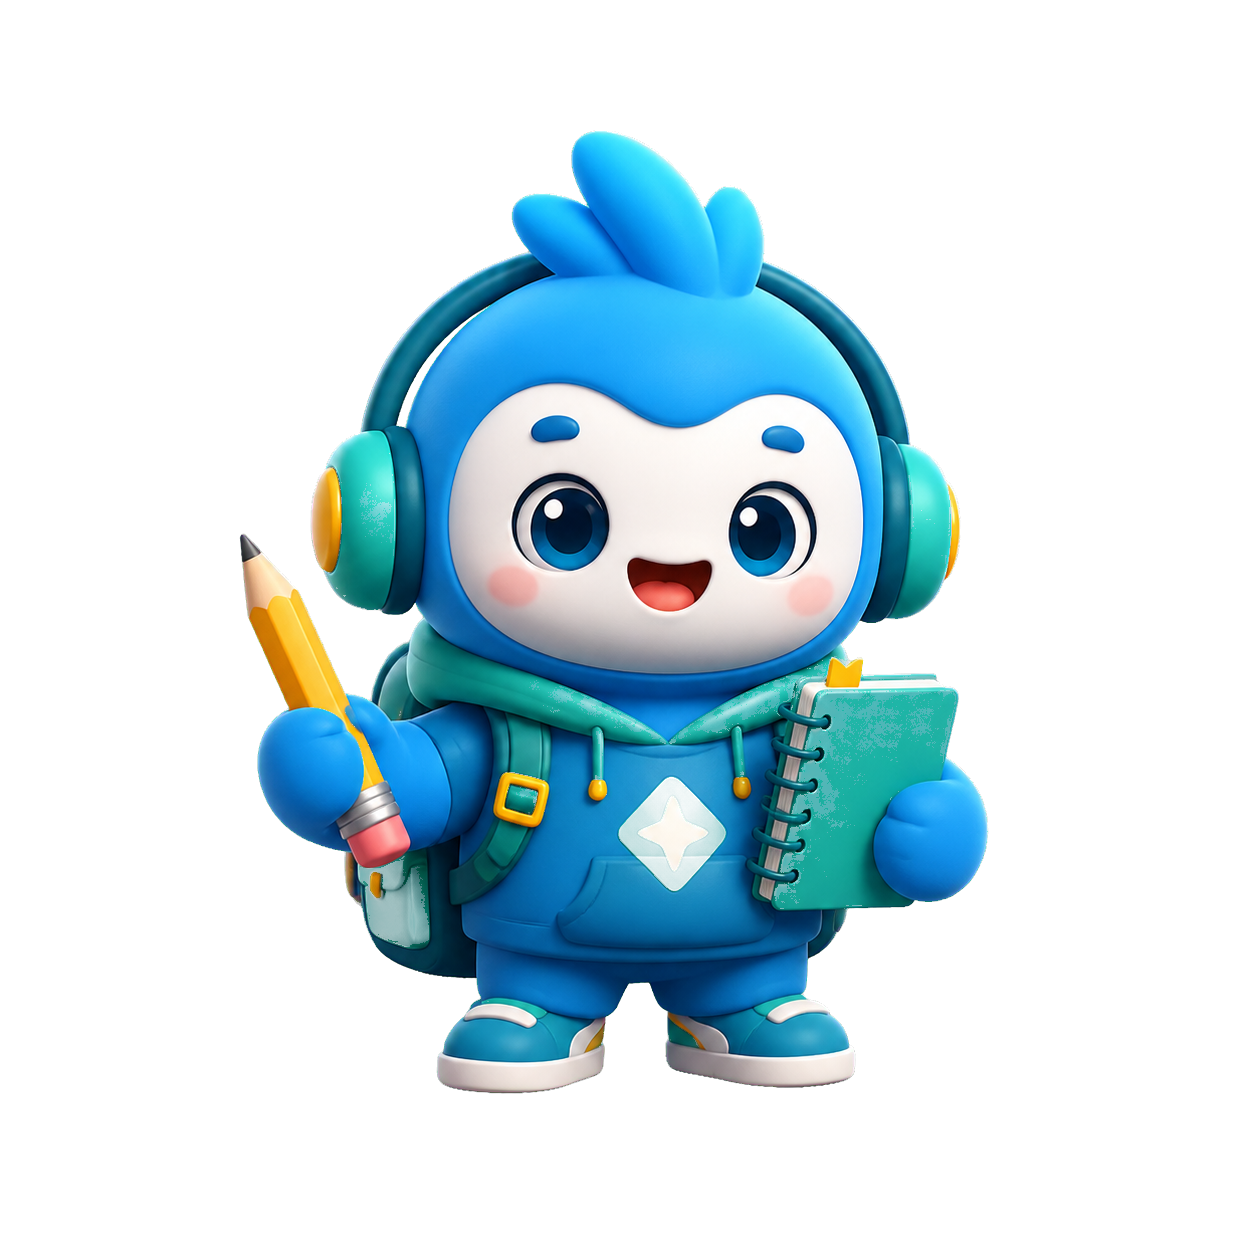
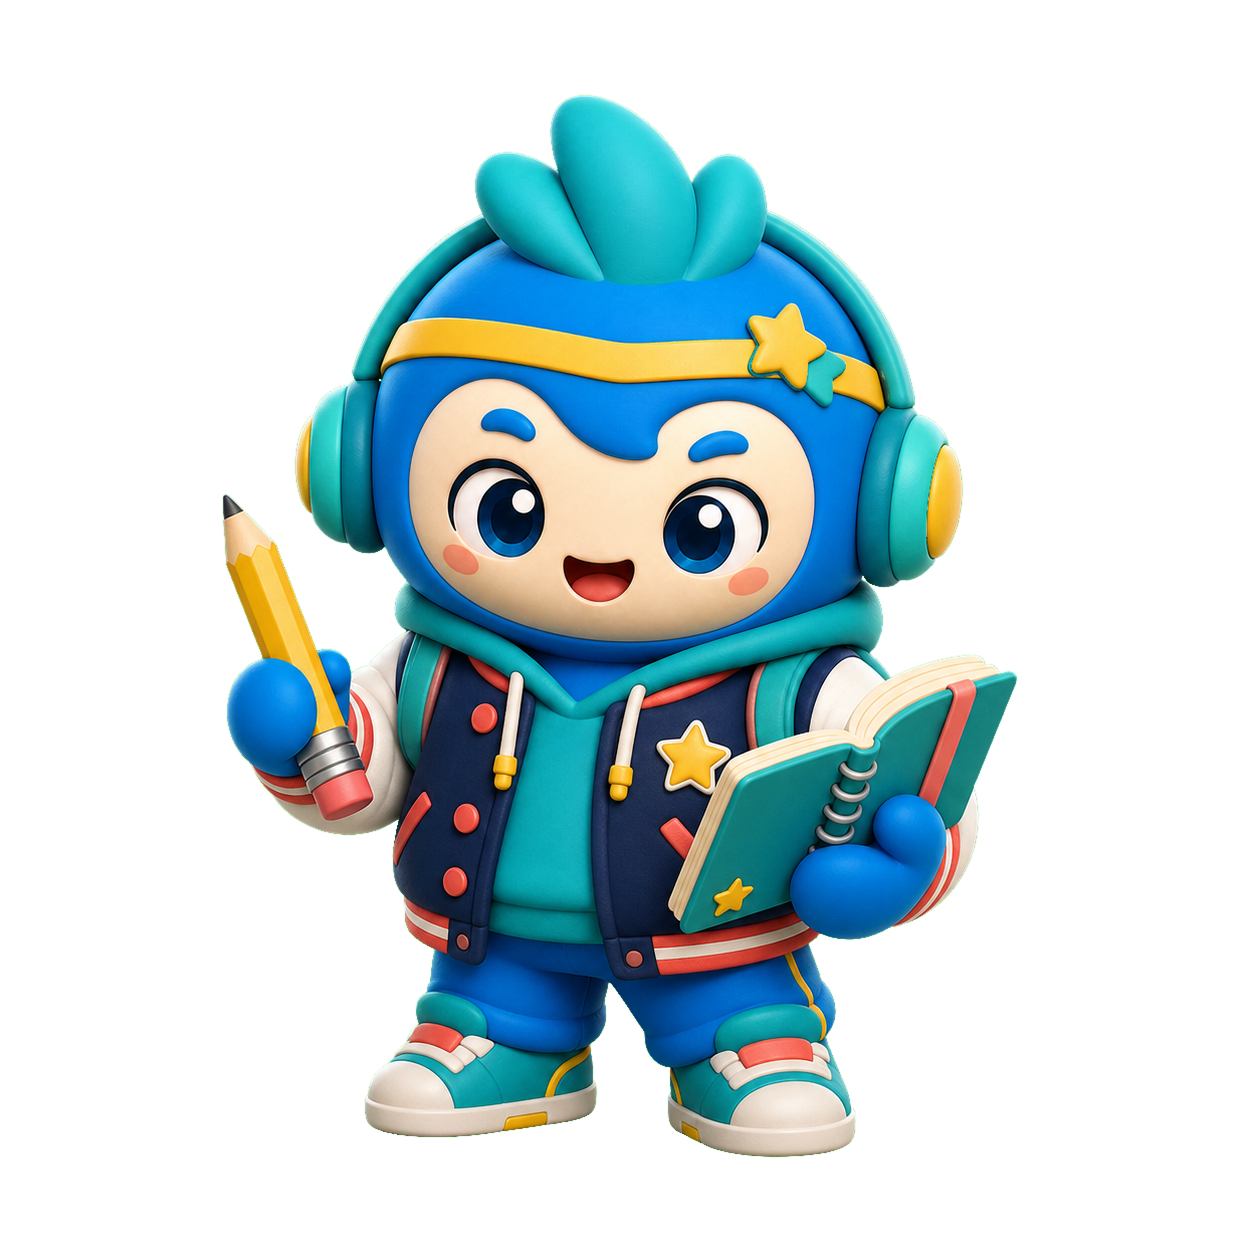
Ultima update

diff --git a/android/app/src/main/kotlin/com/example/focus_app/FocusHomeWidgetUpdater.kt b/android/app/src/main/kotlin/com/example/focus_app/FocusHomeWidgetUpdater.kt
@@ -127,6 +127,7 @@ object FocusHomeWidgetUpdater {
 
     private fun mascotForProfile(asset: String): Int {
         return when (asset) {
+            "assets/profile_icons/focus_scholar.png" -> R.drawable.focus_profile_scholar
             "assets/profile_icons/focus_flame.png" -> R.drawable.focus_profile_flame
             "assets/profile_icons/focus_calm.png" -> R.drawable.focus_profile_calm
             "assets/profile_icons/focus_champion.png" -> R.drawable.focus_profile_champion
@@ -148,6 +149,20 @@ object FocusHomeWidgetUpdater {
             "assets/profile_icons/focus_engineer_female.png" -> R.drawable.focus_profile_engineer_female
             "assets/profile_icons/focus_architect_female.png" -> R.drawable.focus_profile_architect_female
             "assets/profile_icons/focus_lawyer_female.png" -> R.drawable.focus_profile_lawyer_female
+            "assets/profile_icons/focus_pink_cool.png" -> R.drawable.focus_profile_pink_cool
+            "assets/profile_icons/focus_pink_cool_female.png" -> R.drawable.focus_profile_pink_cool_female
+            "assets/profile_icons/focus_pink_skater.png" -> R.drawable.focus_profile_pink_skater
+            "assets/profile_icons/focus_pink_skater_female.png" -> R.drawable.focus_profile_pink_skater_female
+            "assets/profile_icons/focus_pink_music.png" -> R.drawable.focus_profile_pink_music
+            "assets/profile_icons/focus_pink_music_female.png" -> R.drawable.focus_profile_pink_music_female
+            "assets/profile_icons/focus_pink_artist.png" -> R.drawable.focus_profile_pink_artist
+            "assets/profile_icons/focus_pink_artist_female.png" -> R.drawable.focus_profile_pink_artist_female
+            "assets/profile_icons/focus_red_basket.png" -> R.drawable.focus_profile_red_basket
+            "assets/profile_icons/focus_purple_camera.png" -> R.drawable.focus_profile_purple_camera
+            "assets/profile_icons/focus_green_tech.png" -> R.drawable.focus_profile_green_tech
+            "assets/profile_icons/focus_black_gamer.png" -> R.drawable.focus_profile_black_gamer
+            "assets/profile_icons/focus_orange_travel.png" -> R.drawable.focus_profile_orange_travel
+            "assets/profile_icons/focus_yellow_gym.png" -> R.drawable.focus_profile_yellow_gym
             else -> R.drawable.focus_profile_scholar
         }
     }

diff --git a/lib/screens/polytechnic_screen.dart b/lib/screens/polytechnic_screen.dart
@@ -16,7 +16,7 @@ import '../utils/app_utils.dart';
 import '../widgets/focus_drawer.dart';
 import '../widgets/focus_help_button.dart';
 import 'grade_calculator_screen.dart';
-import 'subjects_screen.dart';
+import 'main_navigation_screen.dart';
 
 enum _SubjectSelectionState { none, taking }
 
@@ -808,7 +808,9 @@ class _PolytechnicScreenState extends State<PolytechnicScreen> {
   void _goToSubjectsScreen() {
     if (!mounted) return;
     Navigator.of(context).pushAndRemoveUntil(
-      MaterialPageRoute(builder: (_) => const SubjectsScreen()),
+      MaterialPageRoute(
+        builder: (_) => const MainNavigationScreen(initialIndex: 2),
+      ),
       (route) => false,
     );
   }
@@ -1277,4 +1279,3 @@ class _MutedHint extends StatelessWidget {
     );
   }
 }
-

diff --git a/lib/services/ranking_service.dart b/lib/services/ranking_service.dart
@@ -210,6 +210,13 @@ class RankingService {
       payload['stats.socialMascotIndex'] = mascotIndex;
     }
     await _firestore.collection('users').doc(user.uid).update(payload);
+    if (mascotIndex != null) {
+      try {
+        await ensureCurrentWeekScore();
+      } catch (error) {
+        debugPrint('[FocusRanking] Sync de icono en ranking omitido: $error');
+      }
+    }
   }
 
   static Future<void> updateSocialAvatar(Map<String, dynamic> avatar) async {
